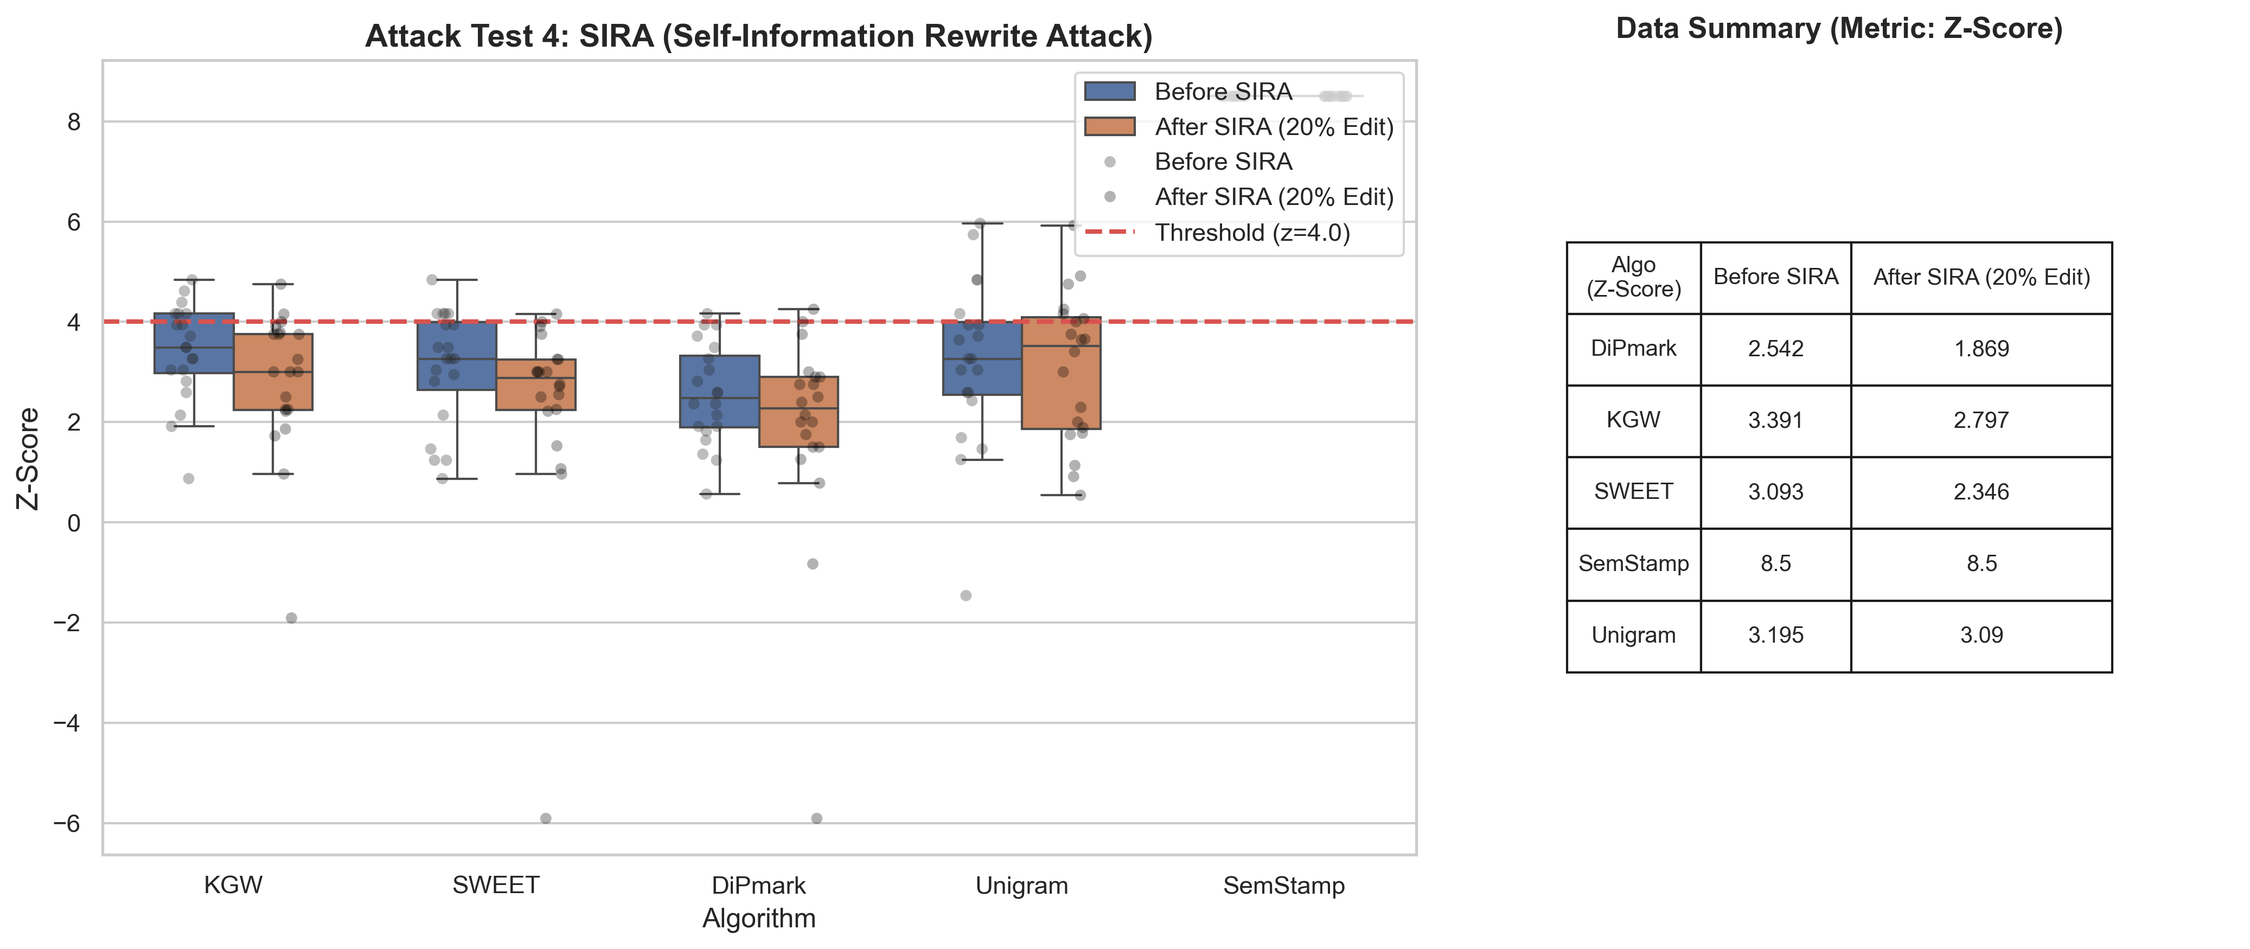
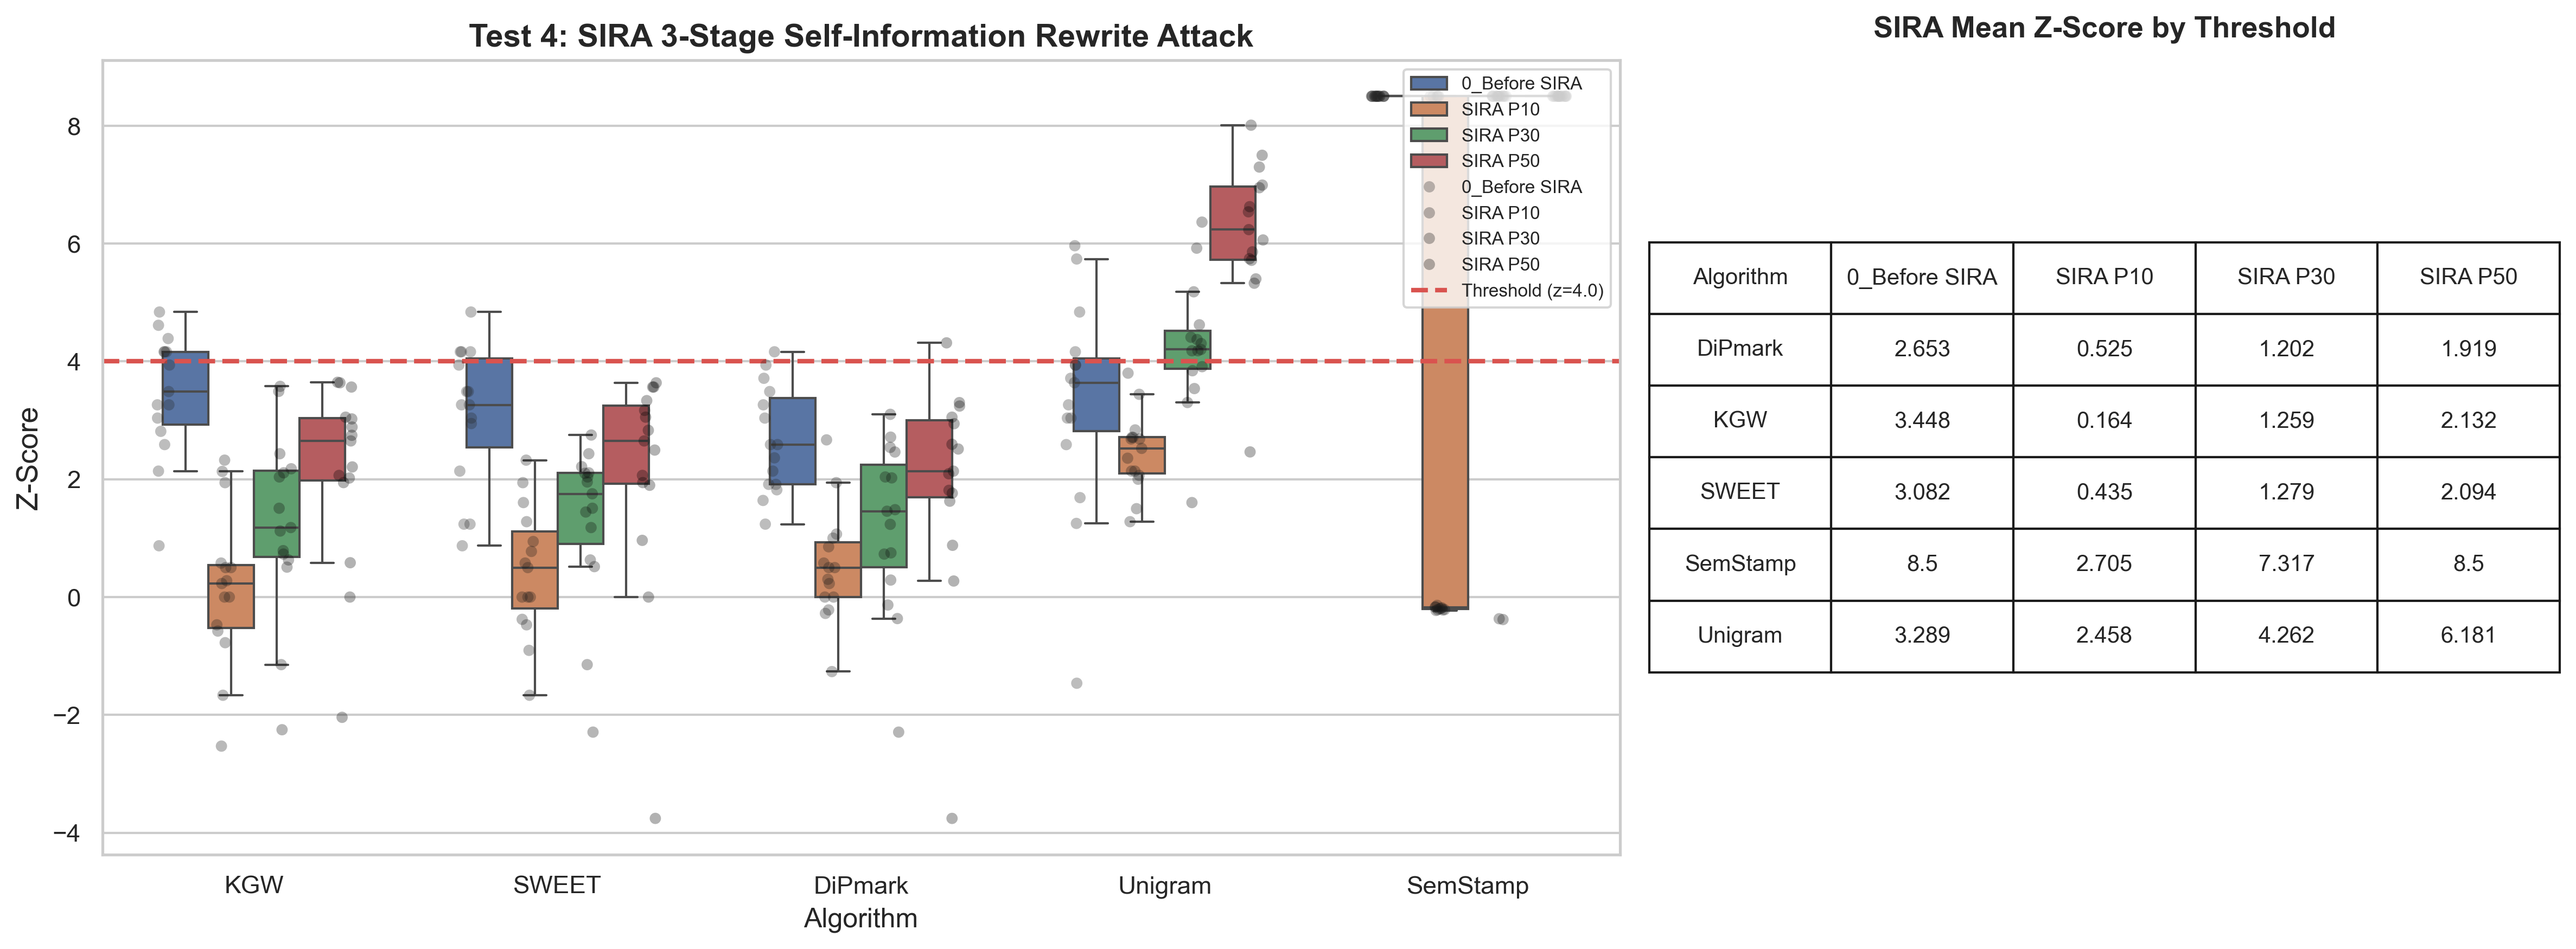
SIRA 对齐参考三阶段流水线，终端 UTF-8 编码修复

diff --git a/test_common.py b/test_common.py
@@ -1,4 +1,13 @@
 """各测试共用的配置、模型和工具函数"""
+import sys
+import os
+
+# 强制 UTF-8 编码, 解决 Windows 终端 GBK 显示乱码问题
+if sys.stdout.encoding != 'utf-8':
+    sys.stdout.reconfigure(encoding='utf-8', errors='replace')
+if sys.stderr.encoding != 'utf-8':
+    sys.stderr.reconfigure(encoding='utf-8', errors='replace')
+
 import pandas as pd
 import random
 import math
@@ -11,7 +20,6 @@ from tqdm import tqdm
 from transformers import AutoTokenizer, AutoModelForSeq2SeqLM, MarianTokenizer, MarianMTModel, AutoModelForCausalLM, LogitsProcessor, LogitsProcessorList, GenerationConfig
 from transformers.cache_utils import DynamicCache
 from copy import deepcopy
-import os
 import warnings
 import re
 import glob
@@ -335,47 +343,104 @@ def watermark_stealing_attack(text, algo_name, attack_type, tokenizer, vocab_siz
             tampered_tokens.append(curr)
     return tokenizer.decode(tampered_tokens, skip_special_tokens=True)
 
-# ================= SIRA 组件 =================
+# ================= SIRA 组件 (对齐 Self-information-Rewrite-Attack 三阶段流水线) =================
 def calculate_token_self_information(text, model, tokenizer, device):
+    """Stage 2 核心: 计算每个 token 的自信息 (surprisal). 参考 SIRA SelfInformationCalculator"""
     inputs = tokenizer(text, return_tensors="pt").to(device)
     input_ids = inputs.input_ids
     if input_ids.shape[1] <= 1: return [], []
     with torch.no_grad(): outputs = model(input_ids)
     logits = outputs.logits[0, :-1, :]
     target_ids = input_ids[0, 1:]
-    probs = F.softmax(logits, dim=-1)
+    probs = torch.softmax(logits, dim=-1)  # 对齐参考: 使用自然对数
     token_probs = probs.gather(1, target_ids.unsqueeze(1)).squeeze(-1)
-    self_info = -torch.log2(token_probs + 1e-10)
+    self_info = -torch.log(token_probs + 1e-10)
     tokens = tokenizer.convert_ids_to_tokens(target_ids)
     return tokens, self_info.cpu().numpy()
 
-def sira_masking(text, model, tokenizer, mask_ratio=0.2, device="cuda"):
+def sira_generate_reference(text):
+    """Stage 1: 改写水印文本生成"参考文本".
+    对齐 SIRA attack_onestep.fill_parapharse_prompt.
+    使用 T5 的 paraphrase 前缀作为轻量替代."""
+    load_attacker()
+    if not isinstance(text, str) or len(text.strip()) == 0:
+        return text
+    input_ids = attacker_tokenizer("paraphrase: " + text, return_tensors="pt",
+                                    max_length=512, truncation=True).input_ids.to(device)
+    with torch.no_grad():
+        outputs = attacker_model.generate(input_ids, max_length=512, num_beams=4, early_stopping=True)
+    return attacker_tokenizer.decode(outputs[0], skip_special_tokens=True)
+
+def sira_masking(text, model, tokenizer, threshold_percentile=30, device="cuda"):
+    """Stage 2: 自信息驱动的空白化.
+    对齐 SIRA SelfInformationCalculator.transform_tokens:
+    - 低自信息 token (≤ P_threshold) → 保留, 作为上下文线索
+    - 高自信息 token (> P_threshold) → 替换为 <extra_id_N> 等待填充
+    连续低自信息块 → 合并, 连续高自信息块 → 合并为一个空白位
+    threshold_percentile: 默认 30, 即保留自信息最低的 30% token"""
     tokens, self_info_scores = calculate_token_self_information(text, model, tokenizer, device)
-    if not tokens or len(tokens) < 5: return text
-    num_to_mask = max(1, int(len(tokens) * mask_ratio))
-    highest_entropy_indices = np.argsort(self_info_scores)[-num_to_mask:]
+    if not tokens or len(tokens) < 5:
+        return text
+
+    cutoff = np.percentile(self_info_scores, threshold_percentile)
+    # low_si = 自信息 <= cutoff (保留), high_si = 自信息 > cutoff (遮蔽)
+    mask_flags = self_info_scores > cutoff
+
     masked_tokens = []
     mask_count = 0
     i = 0
     while i < len(tokens):
-        if i in highest_entropy_indices:
+        if mask_flags[i]:
+            # 高自信息块: 合并连续高自信息 token 为一个空白位
             masked_tokens.append(f"<extra_id_{mask_count}>")
             mask_count += 1
-            while i < len(tokens) and i in highest_entropy_indices: i += 1
-            continue
+            while i < len(tokens) and mask_flags[i]:
+                i += 1
         else:
-            clean_token = tokens[i].replace('Ġ', ' ').replace('Ċ', '\n')
-            masked_tokens.append(clean_token)
+            # 低自信息块: 保留作为上下文 (保留原始 token, 不 strip Ġ/Ċ)
+            masked_tokens.append(tokens[i])
             i += 1
-    return "".join(masked_tokens).strip()
 
-def sira_t5_infilling(masked_text):
+    blank_text = "".join(masked_tokens).strip()
+    return blank_text
+
+def sira_attack_prompt(reference_text, blank_text):
+    """Stage 3 攻击 prompt: 参考文本 + 空白化文本 → 引导 LLM 填充.
+    对齐 SIRA fill_attack_prompt"""
+    prompt = (
+        "You will be shown one reference paragraph and one incomplete paragraph.\n"
+        "Your task is to write a complete paragraph using incomplete paragraph.\n"
+        "The complete paragraph should have similar length with reference paragraph.\n"
+        "You need to include all the information in the reference.\n"
+        "But do not take the expression and words in the reference paragraph.\n"
+        "You should only answer the complete paragraph.\n"
+        f"reference: {reference_text}\n"
+        f"incomplete paragraph: {blank_text}\n"
+    )
+    return prompt
+
+def sira_t5_infilling(masked_text, reference_text=None):
+    """Stage 3: T5 文本填充.
+    如果有 reference_text, 将其作为上下文拼接到输入中辅助 T5 填充空白位;
+    否则回退到直接填充空白位."""
     load_attacker()
-    if "<extra_id_" not in masked_text: return masked_text
-    inputs = attacker_tokenizer(masked_text, return_tensors="pt", max_length=512, truncation=True).to(device)
+    if "<extra_id_" not in masked_text:
+        return masked_text
+
+    if reference_text:
+        # T5 seq2seq 友好格式: 参考文本作为额外上下文
+        input_str = f"paraphrase: {reference_text} context: {masked_text}"
+    else:
+        input_str = masked_text
+
+    inputs = attacker_tokenizer(input_str, return_tensors="pt",
+                                 max_length=512, truncation=True).to(device)
     with torch.no_grad():
-        outputs = attacker_model.generate(**inputs, max_length=512, num_beams=4, temperature=0.8, do_sample=True, early_stopping=True)
+        outputs = attacker_model.generate(**inputs, max_length=512, num_beams=4,
+                                          temperature=0.8, do_sample=True, early_stopping=True)
     filled_content = attacker_tokenizer.decode(outputs[0], skip_special_tokens=True)
+
+    # 从 T5 输出中提取并替换 <extra_id_N> 占位符
     final_text = masked_text
     parts = [p.strip() for p in filled_content.split("<extra_id_") if p.strip()]
     for i, part in enumerate(parts):

diff --git a/test4_sira_targeted.py b/test4_sira_targeted.py
@@ -1,57 +1,73 @@
-"""测试4: SIRA 高熵靶向重写降维打击"""
+"""测试4: SIRA 三阶段自信息重写攻击 (Self-Information Rewrite Attack)"""
 from test_common import *
 
-print_test_header("SIRA 高熵靶向重写降维打击")
+print_test_header("SIRA 三阶段自信息重写攻击 (Self-Information Rewrite Attack)")
 
-load_attacker()  # SIRA 需要 T5 做文本填充
+load_attacker()  # SIRA 需要 T5 做 Stage1 改写 + Stage3 填充
 
 sira_results = []
-sample_sira_df = df.dropna(subset=[f"Text_{algorithms[0]}"]).sample(n=min(20, len(df)), random_state=42)
+# 使用 percentile 阈值列表 (参考 SIRA 默认 P30)
+thresholds = [10, 30, 50]  # P10=保留10%低自信息token, P30=保留30%, P50=保留50%
+sample_sira_df = df.dropna(subset=[f"Text_{algorithms[0]}"]).sample(n=min(15, len(df)), random_state=42)
 
-for idx, row in tqdm(sample_sira_df.iterrows(), total=len(sample_sira_df), desc="SIRA 定向手术刀攻击"):
+for idx, row in tqdm(sample_sira_df.iterrows(), total=len(sample_sira_df), desc="SIRA 三阶段攻击"):
     for algo in algorithms:
-        if algo == "Natural": continue
+        if algo == "Natural":
+            continue
         original_text = row[f"Text_{algo}"]
         z_before = detect_watermark(original_text, algo, detector_tokenizer, vocab_size)
-        masked_text = sira_masking(original_text, target_model, detector_tokenizer, mask_ratio=0.2, device=device)
-        sira_attacked_text = sira_t5_infilling(masked_text)
-        z_after = detect_watermark(sira_attacked_text, algo, detector_tokenizer, vocab_size)
+        sira_results.append({"Algorithm": algo, "Stage": "0_Before SIRA", "Z_Score": z_before})
 
-        sira_results.append({"Algorithm": algo, "State": "1_Before SIRA", "Z_Score": z_before})
-        sira_results.append({"Algorithm": algo, "State": "2_After SIRA (20% Edit)", "Z_Score": z_after})
+        # ---- Stage 1: 生成参考文本 (改写) ----
+        ref_text = sira_generate_reference(original_text)
+
+        # ---- Stage 2+3: 不同阈值下空白化+填充 ----
+        for pct in thresholds:
+            blank_text = sira_masking(original_text, target_model, detector_tokenizer,
+                                      threshold_percentile=pct, device=device)
+            attacked_text = sira_t5_infilling(blank_text, reference_text=ref_text)
+            z_after = detect_watermark(attacked_text, algo, detector_tokenizer, vocab_size)
+            sira_results.append({
+                "Algorithm": algo,
+                "Stage": f"SIRA P{pct}",
+                "Z_Score": z_after
+            })
 
 sira_df = pd.DataFrame(sira_results)
-summary_table_4 = sira_df.groupby(['Algorithm', 'State'])['Z_Score'].mean().unstack('State').round(3)
-summary_table_4.columns = [col.split('_')[1] for col in summary_table_4.columns]
+pivot = sira_df.pivot_table(index='Algorithm', columns='Stage', values='Z_Score', aggfunc='mean')
+# 排序列: Before 在前, 然后按 P10, P30, P50
+stage_order = ["0_Before SIRA"] + [f"SIRA P{p}" for p in thresholds]
+pivot = pivot.reindex(columns=[c for c in stage_order if c in pivot.columns])
+pivot = pivot.round(3)
 
-print("\n=== [数据表] SIRA Z-Score 汇总 ===")
-print(summary_table_4.to_string())
+print("\n=== [数据表] SIRA 三阶段攻击 Z-Score 汇总 ===")
+print(pivot.to_string())
 
-sira_df['State'] = sira_df['State'].apply(lambda x: x.split('_')[1])
-fig4 = plt.figure(figsize=(14, 6))
+# ---- 绘图 ----
+fig4 = plt.figure(figsize=(16, 6))
 gs4 = fig4.add_gridspec(1, 2, width_ratios=[2, 1.2])
 ax4_1 = fig4.add_subplot(gs4[0])
 ax4_2 = fig4.add_subplot(gs4[1])
 
-sns.boxplot(x="Algorithm", y="Z_Score", hue="State", data=sira_df, ax=ax4_1, width=0.6, showfliers=False)
-sns.stripplot(x="Algorithm", y="Z_Score", hue="State", data=sira_df, ax=ax4_1, dodge=True, color='black', alpha=0.3)
+# 箱型图
+sns.boxplot(x="Algorithm", y="Z_Score", hue="Stage", data=sira_df, ax=ax4_1, width=0.6, showfliers=False)
+sns.stripplot(x="Algorithm", y="Z_Score", hue="Stage", data=sira_df, ax=ax4_1, dodge=True, color='black', alpha=0.3)
 ax4_1.axhline(y=4.0, color='#d9534f', linestyle='--', linewidth=2, label='Threshold (z=4.0)')
-ax4_1.set_title('Attack Test 4: SIRA (Self-Information Rewrite Attack)', fontsize=14, fontweight='bold')
+ax4_1.set_title('Test 4: SIRA 3-Stage Self-Information Rewrite Attack', fontsize=14, fontweight='bold')
 ax4_1.set_ylabel('Z-Score', fontsize=13)
-ax4_1.legend(loc='upper right')
+ax4_1.legend(loc='upper right', fontsize=8)
 
-table4_data = summary_table_4.reset_index()
-table4_data.rename(columns={'Algorithm': 'Algo\n(Z-Score)'}, inplace=True)
+# 数据表
+table4_data = pivot.reset_index()
 ax4_2.axis('off')
-ax4_2.set_title('Data Summary (Metric: Z-Score)', fontsize=13, fontweight='bold', pad=10)
-table4 = ax4_2.table(cellText=table4_data.values, colLabels=table4_data.columns, loc='center', cellLoc='center')
-table4.auto_set_font_size(False)
-table4.set_fontsize(10)
-table4.scale(1, 2.5)
-table4.auto_set_column_width(col=list(range(len(table4_data.columns))))
+ax4_2.set_title('SIRA Mean Z-Score by Threshold', fontsize=13, fontweight='bold', pad=10)
+tab4 = ax4_2.table(cellText=table4_data.values, colLabels=table4_data.columns, loc='center', cellLoc='center')
+tab4.auto_set_font_size(False)
+tab4.set_fontsize(10)
+tab4.scale(1, 2.5)
+
 plt.tight_layout()
 plt.savefig("attack_4_sira_targeted.png", dpi=300, bbox_inches='tight')
 print(">>> 图表已保存: attack_4_sira_targeted.png")
-plt.show()
 plt.close()
 print("=== 测试4完成 ===\n")

diff --git a/run_test.py b/run_test.py
@@ -11,6 +11,7 @@ import os
 os.environ.setdefault("HF_HUB_OFFLINE", "1")
 os.environ.setdefault("TRANSFORMERS_OFFLINE", "1")
 os.environ.setdefault("NO_PROXY", "*")
+os.environ.setdefault("PYTHONIOENCODING", "utf-8")
 os.environ.setdefault("PYTHONNOUSERSITE", "1")
 
 SCRIPT_DIR = os.path.dirname(os.path.abspath(__file__))
